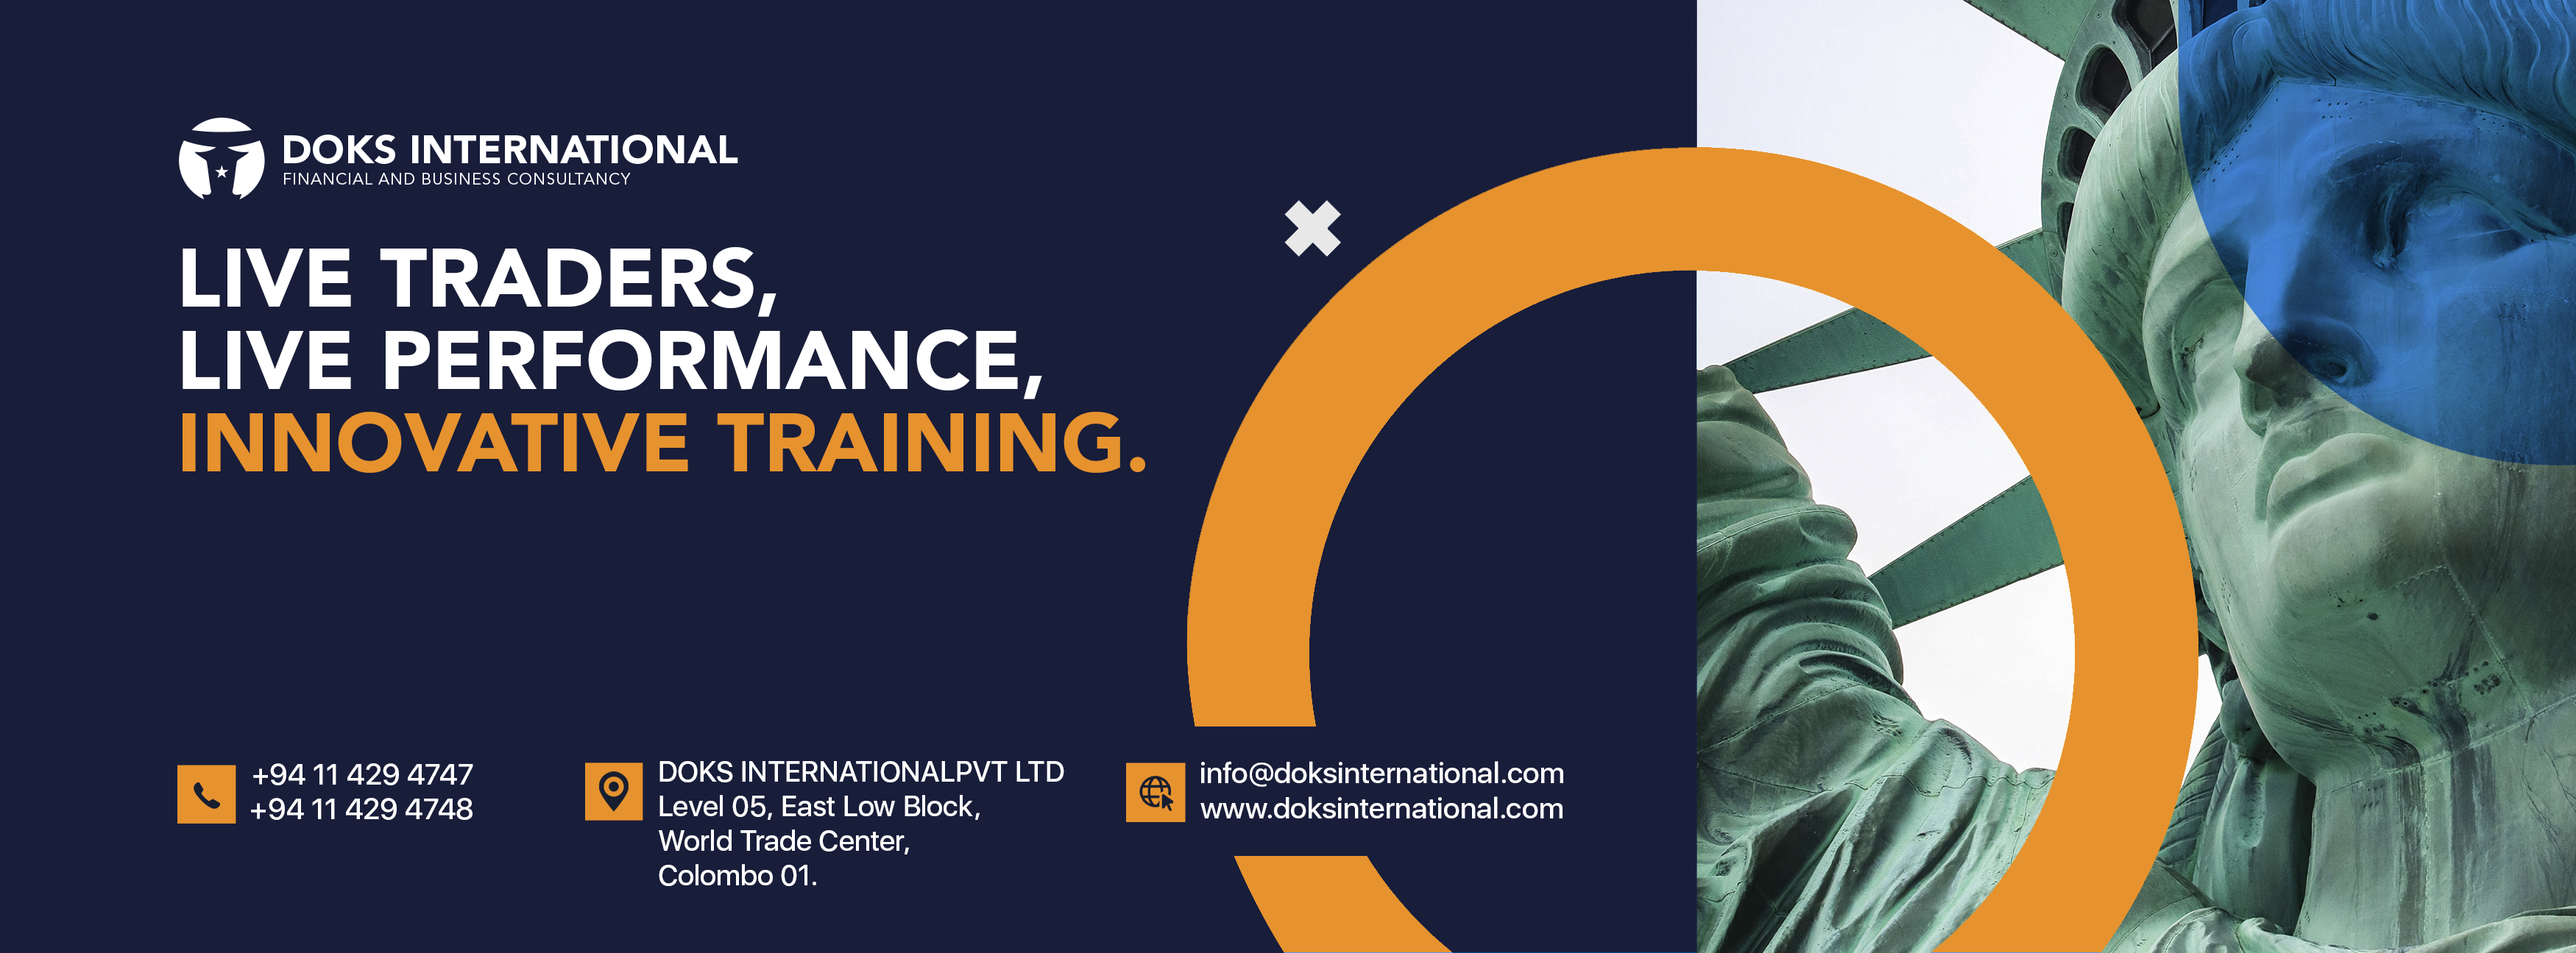
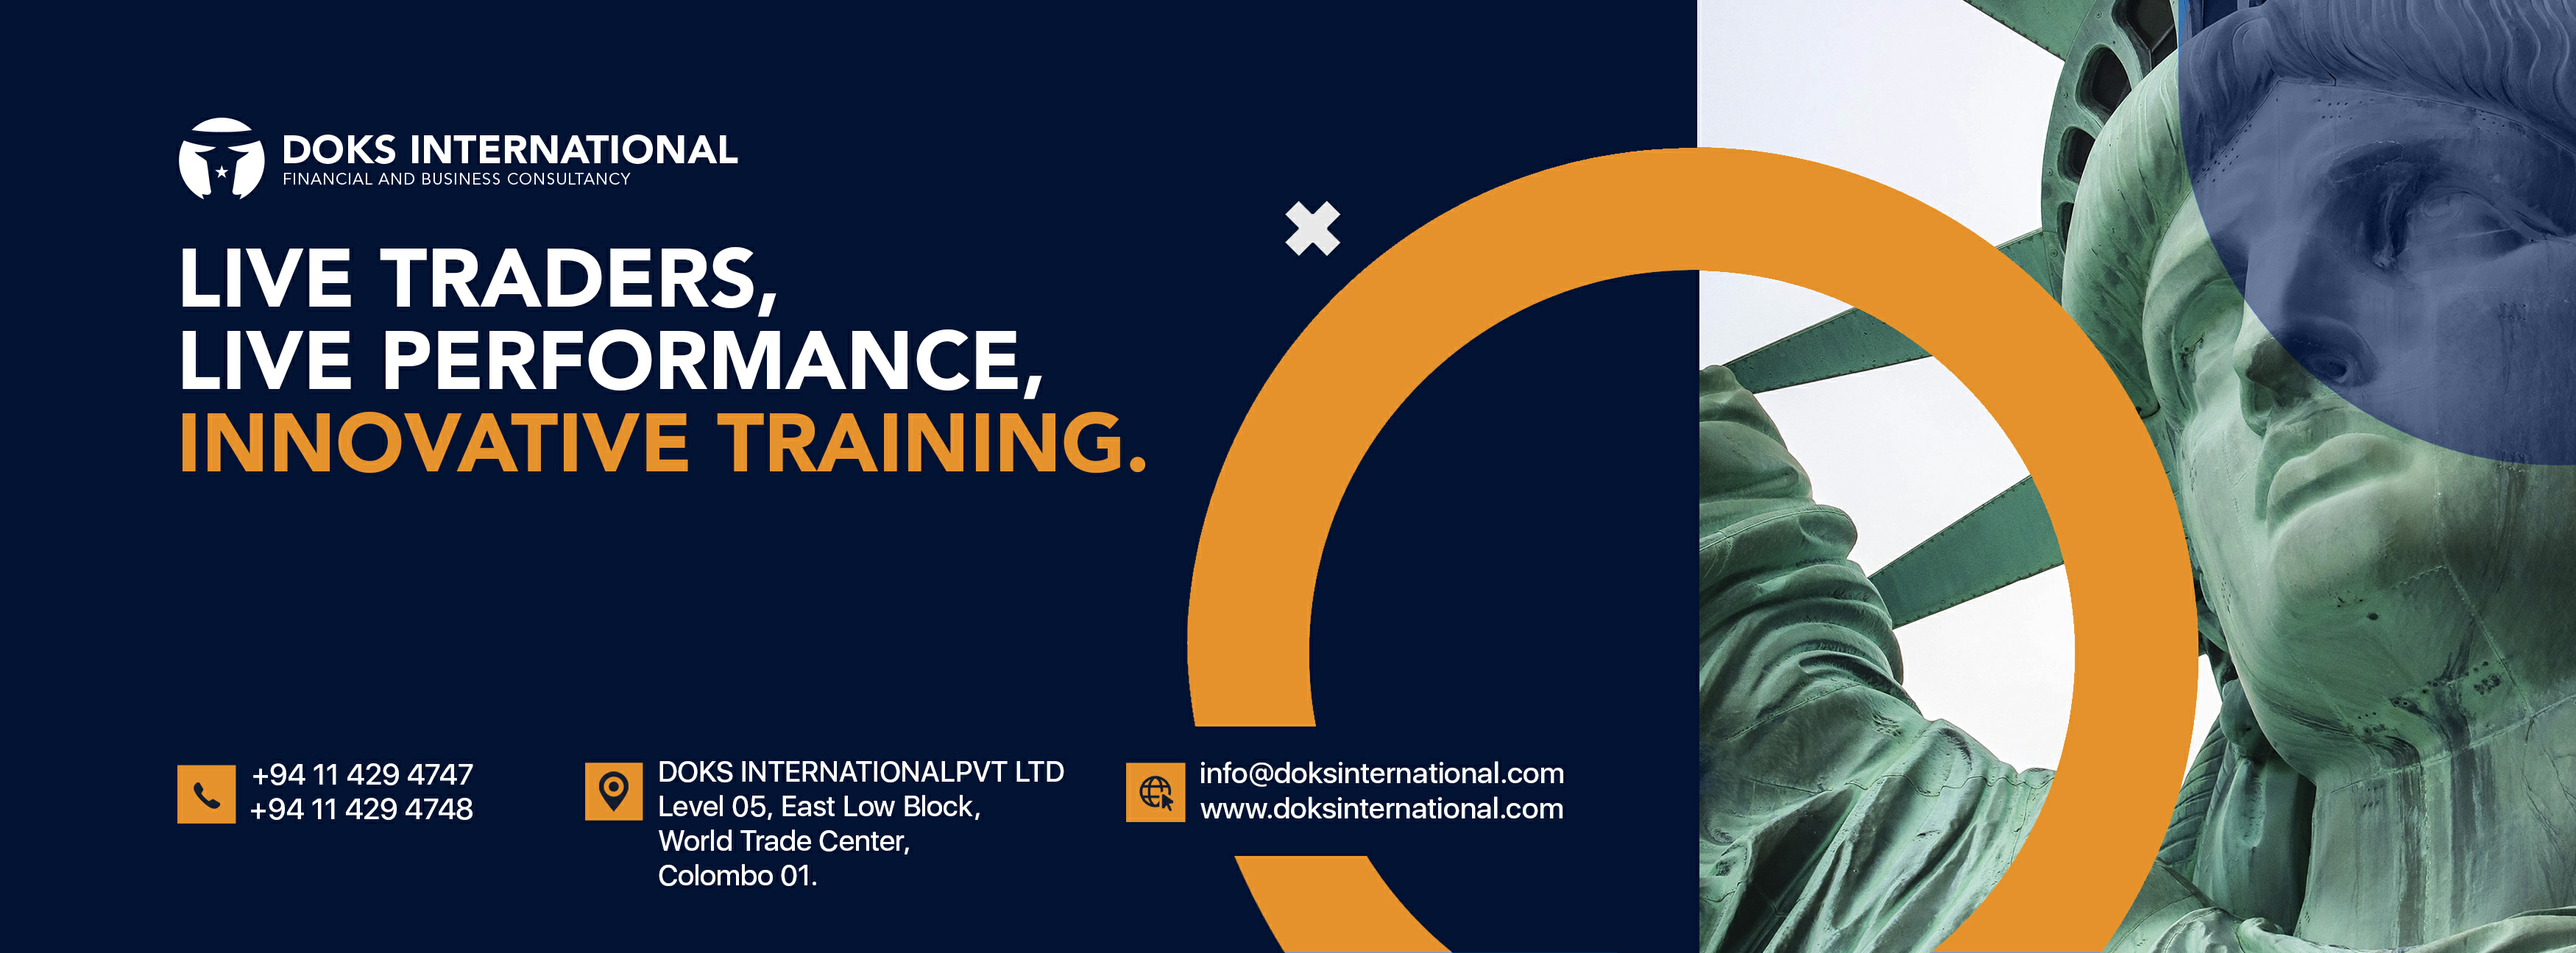
-

Changed region(s): [[0.8409, 0.0, 1.0, 0.463]]

diff --git a/src/app/home/home.component.html b/src/app/home/home.component.html
@@ -215,7 +215,7 @@
                 <p>
                     Our daily briefings are designed with most accurate financial data and analysis so you can Learn what’s happening in the world of investing in just 5 minutes. We select investing insights from the world’s top investing experts.
                 </p>
-                <button class="btn-orange mt-5 mb-0">Register Now</button>
+                <button class="btn-orange mt-5 mb-0" [routerLink]="['/account']">Register Now</button>
 
             </div>
         </div>
@@ -229,18 +229,20 @@
     <div class="container" data-aos="fade-up">
         <div class="form-group pl-lg-5">
             <div class="row align-items-center">
-                <div class="col-lg-5 col-md-5 col-sm-12  text-center ">
+                <!-- <div class="col-lg-5 col-md-5 col-sm-12  text-center ">
                     <img height="400px" class="ceo-dp m-auto" src="../../assets/img/team/t5.jpg">
-                </div>
-                <div class="col-lg-7 col-md-7 col-sm-12">
+                </div> -->
+                <div class="col-lg-12 col-md-12 col-sm-12">
                     <div class="text-center my-2">
                         <h3 data-aos="fade-up" data-aos-delay="100"><span> CEO </span> Message</h3>
                         <div class="d-flex">
                             <img height="70" class="align-self-start" src="../../assets/img/quotat.png">
                             <p class="py-5 font-light ">
-                                The payments market is undergoing radical transformation with diversifying consumer needs and the advances in technology. New technologies are accelerating the development of innovative payment solutions which will create brand new experiences for consumers.
-                                The payments industry is fulfilling an increasingly important role in economic development, and making payment solutions accessible to as many people as possible to broaden financial inclusion
-                            </p>
+                                We at DOKS are firm believers that KNOWLEDGE IS THE BEST INVESTMENT and teaching a person a
+                                 useful skill can be more beneficial in the long run than filling a need for them temporarily.
+                                  As the old saying goes,  <b style="color:#e6922e;">“Give a man a fish, and you feed him for a day. Teach a man to fish, 
+                                  and you feed him for a lifetime”.</b>
+                                     </p>
 
                             <img style="transform:rotate(180deg);" class="align-self-end " height="70" src="../../assets/img/quotat.png">
                         </div>
@@ -295,13 +297,27 @@
         <div class="container" data-aos="fade-up">
 
             <div class="section-title">
-                <h2>Packages</h2>
-                <h3>Check our <span>Packages</span></h3>
-                <p>#################################</p>
+                <h2>Education</h2>
+                <h3>DOKS  <span>Education</span></h3>
+                <p style="width: 100%;">We at DOKS are firm believers that<b style="color:#e6922e;"> KNOWLEDGE IS THE BEST INVESTMENT </b>and teaching a 
+                    person a useful skill can be more beneficial in the long run than filling a need for
+                     them temporarily. As the old saying goes,<i> “<b style="color:#e6922e;">Give</b> a man a fish, and you<b style="color:#e6922e;"> feed him for a day.
+                      Teach </b>a man to fish, and you <b style="color:#e6922e;">feed him for a lifetime”</b></i>.
+
+                </p>
+                <p>
+                   <b style="color:#e6922e;"> IT ALL STARTS WITH A FREE INTRODUCTORY CLASS</b>. Enjoy reading our 
+                    free material and watch the video demos that will completely change your life. Welcome to the world of Stock Trading!
+
+                </p>
+                <button class="btn-orange mt-5 mb-0" [routerLink]="['/']">View DOKS Education</button>
+
             </div>
 
             <div class="row">
 
+
+<!-- 
                 <div class="col-lg-4 col-md-6 p-card" data-aos="fade-up" data-aos-delay="100">
                     <div class="box">
                         <h3>Free##</h3>
@@ -352,7 +368,7 @@
                             <a href="#" class="btn-buy">Get Now</a>
                         </div>
                     </div>
-                </div>
+                </div> -->
 
 
             </div>

diff --git a/src/app/footer/footer.component.html b/src/app/footer/footer.component.html
@@ -31,10 +31,10 @@
                     <h4>Useful Links</h4>
                     <ul>
                         <li><em class="bx bx-chevron-right li-arrow"></em> <a href="#">Home</a></li>
-                        <li><em class="bx bx-chevron-right li-arrow"></em> <a href="#">About us</a></li>
-                        <li><em class="bx bx-chevron-right li-arrow"></em> <a href="#">Services</a></li>
-                        <li><em class="bx bx-chevron-right li-arrow"></em> <a href="#">Terms of service</a></li>
-                        <li><em class="bx bx-chevron-right li-arrow"></em> <a href="#">Privacy policy</a></li>
+                        <li><em class="bx bx-chevron-right li-arrow"></em> <a href="#about">About us</a></li>
+                        <li><em class="bx bx-chevron-right li-arrow"></em> <a href="#webinar">Sessions</a></li>
+                        <li><em class="bx bx-chevron-right li-arrow"></em> <a href="#contact">Contact Us</a></li>
+                        <li><em class="bx bx-chevron-right li-arrow"></em> <a [routerLink]="['/account']">Account</a></li>
                     </ul>
                 </div>
 
@@ -43,11 +43,11 @@
                     <h4>Our Social Networks</h4>
 
                     <div class="social-links mt-3">
-                        <a href="#" class="twitter"><i class="bx bxl-twitter"></i></a>
-                        <a href="#" class="facebook"><i class="bx bxl-facebook"></i></a>
-                        <a href="#" class="instagram"><i class="bx bxl-instagram"></i></a>
-                        <a href="#" class="google-plus"><i class="bx bxl-skype"></i></a>
-                        <a href="#" class="linkedin"><i class="bx bxl-linkedin"></i></a>
+                        <!-- <a href="#" class="twitter"><i class="bx bxl-twitter"></i></a> -->
+                        <a href="https://www.facebook.com/doksinternational" class="facebook"><i class="bx bxl-facebook"></i></a>
+                        <a href="https://instagram.com/doksinternational?utm_medium=copy_link" class="instagram"><i class="bx bxl-instagram"></i></a>
+                        <!-- <a href="#" class="google-plus"><i class="bx bxl-skype"></i></a> -->
+                        <!-- <a href="#" class="linkedin"><i class="bx bxl-linkedin"></i></a> -->
                     </div>
                 </div>
 

diff --git a/src/app/topbar/topbar.component.html b/src/app/topbar/topbar.component.html
@@ -3,15 +3,15 @@
     <div class="container d-flex">
         <div class="contact-info mr-auto">
             <i class="icofont-email"></i> <a
-                href="mailto:info@doksinterational.com">info@doksinterational.com </a>  
+                href="mailto:info@doksinterational.com">info@doksinternational.com </a>  
                  <i class="icofont-phone"></i>   +94 11 429 4747 / 4748
         </div>
         <div class="social-links">
-            <a href="#" class="twitter"><i class="icofont-twitter"></i></a>
-            <a href="#" class="facebook"><i class="icofont-facebook"></i></a>
-            <a href="#" class="instagram"><i class="icofont-instagram"></i></a>
-            <a href="#" class="skype"><i class="icofont-skype"></i></a>
-            <a href="#" class="linkedin"><i class="icofont-linkedin"></i> </a>
+            <!-- <a href="#" class="twitter"><i class="icofont-twitter"></i></a> -->
+            <a href="https://www.facebook.com/doksinternational" class="facebook"><i class="icofont-facebook"></i></a>
+            <a href="https://instagram.com/doksinternational?utm_medium=copy_link" class="instagram"><i class="icofont-instagram"></i></a>
+            <!-- <a href="#" class="skype"><i class="icofont-skype"></i></a> -->
+            <!-- <a href="#" class="linkedin"><i class="icofont-linkedin"></i> </a> -->
         </div>
     </div>
 </div>

diff --git a/src/app/header2/header2.component.html b/src/app/header2/header2.component.html
@@ -5,14 +5,14 @@
         <!-- Uncomment below if you prefer to use an image logo -->
         <a id="main-logo" href="index.html" class="logo mr-auto"><img src="../assets/img/logo/logo_white_text.png" alt=""></a>
         <div class="contact-info mr-auto d-none text-white d-lg-block">
-            <i class="icofont-email text-white"></i> <a href="mailto:info@doksinterational.com" style="color:white;"> info@doksinterational.com </a>
+            <i class="icofont-email text-white"></i> <a href="mailto:info@doksinterational.com" style="color:white;"> info@doksinternational.com </a>
             <span class="px-3"></span>
             <i class="icofont-phone"></i> +94 11 429 4747 / 4748
         </div>
         <nav class="nav-menu d-none d-lg-block  ">
 
             <ul>
-                <li><a routerLink="/">Home</a></li>
+                <li><a href="index.html">Home</a></li>
 
             </ul>
         </nav>

diff --git a/src/app/header/header.component.html b/src/app/header/header.component.html
@@ -11,7 +11,7 @@
                 <li><a href="#webinar">Sessions</a></li>
                 <li><a href="#pricing">Packages</a></li>
                 <li><a href="#contact">Contact Us</a></li>
-                <li><a href="#contact">Login</a></li> 
+                <li><a [routerLink]="['/account']">Login</a></li> 
                
                     <a class=" ml-4 my-2 btn-orange" [routerLink]="['/account']" style="border: none;" > 
                             Account 

diff --git a/src/app/register/register.component.html b/src/app/register/register.component.html
@@ -1,6 +1,6 @@
 
         <!-- <div id="preloader"></div> -->
-   <div  style="background-image:url('assets/img/background/body_bg.jpg');"> 
+   <div  style="background-image:url('assets/img/background/body_bg_1.png');"> 
         <!-- header end -->
            <!-- Start breadcumb Area -->
            <div class="page-area">

diff --git a/src/app/login/login.component.css b/src/app/login/login.component.css
@@ -11,8 +11,8 @@ input[type=number] {
 }
 
 .account-banner{
-  background-image: url('../../assets/img/background/account.jpg');
+  background-image: url('../../assets/img/background/Login_Screen.png');
   background-repeat: no-repeat;
   background-size: cover; 
-background-position: top;
+  background-position: top;
 }

diff --git a/src/assets/css/style.css b/src/assets/css/style.css
@@ -18,7 +18,7 @@ body {
     color: #646464;
     /* background-color: #0d141e;
      */
-    background-image: url('../img/background/body_bg.jpg');
+    background-image: url('../img/background/body_bg_1.png');
     background-repeat: no-repeat;
     background-size: cover;
     background-position: center;

diff --git a/src/app/about/about.component.html b/src/app/about/about.component.html
@@ -1,6 +1,6 @@
 
         <!-- <div id="preloader"></div> -->
-        <div  style="background-image:url('assets/img/background/body_bg.jpg');"> 
+        <div  style="background-image:url('assets/img/background/body_bg_1.png');"> 
 
         <!-- Start breadcumb Area -->
         <div class="page-area">

diff --git a/src/app/news-feeds/news-feeds.component.ts b/src/app/news-feeds/news-feeds.component.ts
@@ -10,7 +10,7 @@ export class NewsFeedsComponent implements OnInit {
   newsfeed:string; 
 
   constructor() {
-    this.newsfeed = "Registration Opens on 07th July.. Stay tuned.....";
+    this.newsfeed = "Registration Opens on 03rd August.. Stay tuned.....";
   
    }
 

diff --git a/src/index.html b/src/index.html
@@ -7,7 +7,7 @@
   <meta charset="utf-8">
   <meta content="width=device-width, initial-scale=1.0" name="viewport">
 
-  <title>Doks.</title>
+  <title>Doks</title>
   <meta content="" name="description">
   <meta content="" name="keywords">
 

diff --git a/src/app/contact/contact.component.html b/src/app/contact/contact.component.html
@@ -1,4 +1,4 @@
-<div  style="background-image:url('assets/img/background/body_bg.jpg');"> 
+<div  style="background-image:url('assets/img/background/body_bg_1.png');"> 
 
        <!-- Start breadcumb Area -->
        <div class="page-area">
